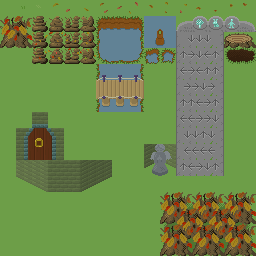
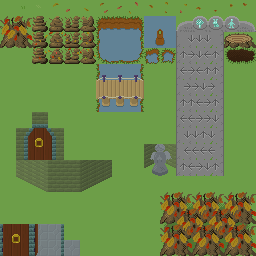
Spell of Opening

Changed region(s): [[0.0, 0.875, 0.3125, 1.0]]

diff --git a/src/game/hero/hero_event.c b/src/game/hero/hero_event.c
@@ -29,10 +29,25 @@ static void hero_cast_crow(struct sprite *sprite) {
 }
 
 /* The Spell of Opening.
+ * It's also the Spell of Closing. Look for 4 specific tiles (0xe0,0xe1,0xf0,0xf1) and toggle them with their neighbors +2.
+ * Obviously this is a poor way to do things, but I'm on a tight schedule.
  */
  
 static void hero_cast_open(struct sprite *sprite) {
-  fprintf(stderr,"TODO %s\n",__func__);
+  uint8_t *p=g.map->v;
+  int i=COLC*ROWC;
+  for (;i-->0;p++) {
+    switch (*p) {
+      case 0xe0: *p=0xe2; break;
+      case 0xe1: *p=0xe3; break;
+      case 0xe2: *p=0xe0; break;
+      case 0xe3: *p=0xe1; break;
+      case 0xf0: *p=0xf2; break;
+      case 0xf1: *p=0xf3; break;
+      case 0xf2: *p=0xf0; break;
+      case 0xf3: *p=0xf1; break;
+    }
+  }
 }
 
 /* Finish tree-spell mode.
@@ -296,7 +311,7 @@ void sprite_hero_input(struct sprite *sprite,int input,int pvinput) {
   /* Apply or lift blackout, if warranted.
    */
   if (SPRITE->input_blackout) {
-    if (input&~EGG_BTN_CD) input=0; // Still waiting.
+    if (input&(EGG_BTN_LEFT|EGG_BTN_RIGHT|EGG_BTN_UP|EGG_BTN_DOWN)) input=0; // Still waiting.
     else SPRITE->input_blackout=0; // OK proceed.
   }
   

diff --git a/README.md b/README.md
@@ -13,7 +13,7 @@ Week:
 - [ ] Tree stumps, for casting environmental spells.
 - - [x] Teleport.
 - - [ ] Summon guidance crow.
-- - [ ] Spell of Opening.
+- - [x] Spell of Opening.
 - [ ] Sound effects.
 - [ ] Allow hazard sprites to indicate explicit rejection direction.
 - [ ] Fireworks when transforming to/from animal.
